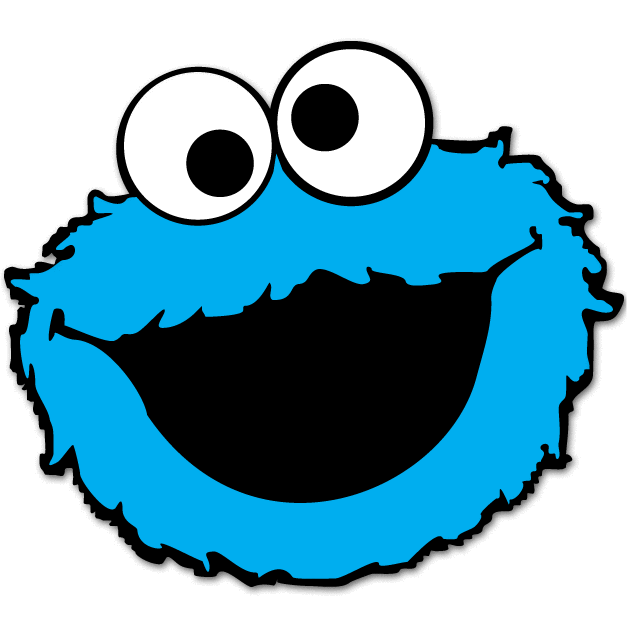
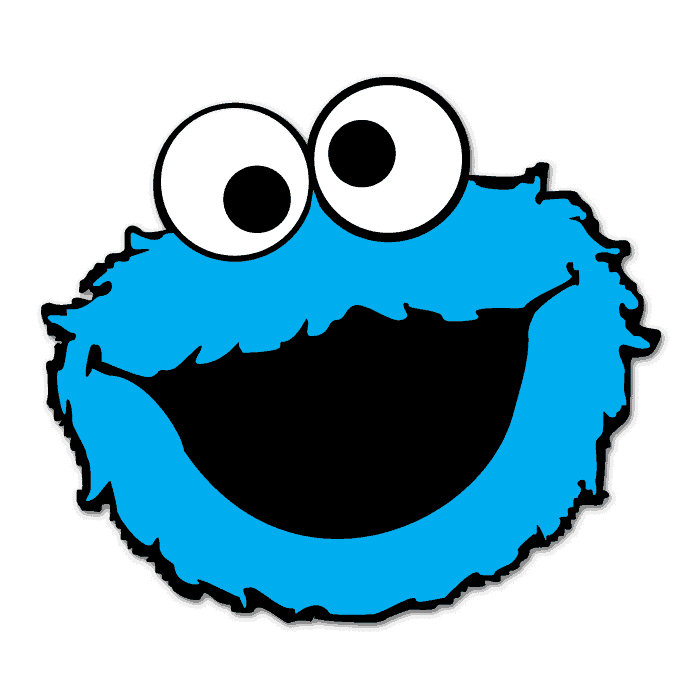
Site updated: 2023-07-11 00:01:03

Changed region(s): [[0.0, 0.0606, 1.0, 0.9697]]

diff --git a/js/APlayer/docs/zh-Hans/support.html b/js/APlayer/docs/zh-Hans/support.html
@@ -7,8 +7,8 @@
 
 <head>
   <meta charset="UTF-8">
-  <link rel="apple-touch-icon" sizes="76x76" href="/img/cookiemonster.png">
-  <link rel="icon" href="/img/cookiemonster.png">
+  <link rel="apple-touch-icon" sizes="76x76" href="/img/cookie.png">
+  <link rel="icon" href="/img/cookie.png">
   <meta name="viewport" content="width=device-width, initial-scale=1.0, maximum-scale=5.0, shrink-to-fit=no">
   <meta http-equiv="x-ua-compatible" content="ie=edge">
   
@@ -259,7 +259,7 @@
 <li>通过 <a target="_blank" rel="noopener" href="https://github.com/sponsors/DIYgod">GitHub</a> 赞助</li>
 <li>通过 <a target="_blank" rel="noopener" href="https://www.patreon.com/DIYgod">Patreon</a> 赞助</li>
 <li>通过 <a target="_blank" rel="noopener" href="https://afdian.net/@diygod">爱发电</a> 赞助</li>
-<li>给我们发邮件联系赞助事宜: <a href="mailto:&#105;&#x40;&#x64;&#x69;&#x79;&#103;&#x6f;&#x64;&#46;&#x6d;&#101;">&#105;&#x40;&#x64;&#x69;&#x79;&#103;&#x6f;&#x64;&#46;&#x6d;&#101;</a></li>
+<li>给我们发邮件联系赞助事宜: <a href="mailto:&#x69;&#x40;&#x64;&#105;&#121;&#103;&#x6f;&#100;&#x2e;&#x6d;&#101;">&#x69;&#x40;&#x64;&#105;&#121;&#103;&#x6f;&#100;&#x2e;&#x6d;&#101;</a></li>
 </ul>
 <h2 id="一次性赞助"><a href="#一次性赞助" class="headerlink" title="一次性赞助"></a>一次性赞助</h2><p>我们通过以下方式接受赞助:</p>
 <ul>

diff --git a/js/APlayer/docs/support.html b/js/APlayer/docs/support.html
@@ -7,8 +7,8 @@
 
 <head>
   <meta charset="UTF-8">
-  <link rel="apple-touch-icon" sizes="76x76" href="/img/cookiemonster.png">
-  <link rel="icon" href="/img/cookiemonster.png">
+  <link rel="apple-touch-icon" sizes="76x76" href="/img/cookie.png">
+  <link rel="icon" href="/img/cookie.png">
   <meta name="viewport" content="width=device-width, initial-scale=1.0, maximum-scale=5.0, shrink-to-fit=no">
   <meta http-equiv="x-ua-compatible" content="ie=edge">
   
@@ -259,7 +259,7 @@
 <li>Become a Sponser on <a target="_blank" rel="noopener" href="https://github.com/sponsors/DIYgod">GitHub</a></li>
 <li>Become a Sponser on <a target="_blank" rel="noopener" href="https://www.patreon.com/DIYgod">Patreon</a></li>
 <li>Become a Sponser on <a target="_blank" rel="noopener" href="https://afdian.net/@diygod">爱发电</a></li>
-<li>Contact us directly: <a href="mailto:&#105;&#x40;&#x64;&#x69;&#121;&#x67;&#x6f;&#x64;&#46;&#109;&#x65;">&#105;&#x40;&#x64;&#x69;&#121;&#x67;&#x6f;&#x64;&#46;&#109;&#x65;</a></li>
+<li>Contact us directly: <a href="mailto:&#x69;&#x40;&#x64;&#105;&#121;&#103;&#x6f;&#100;&#x2e;&#x6d;&#101;">&#x69;&#x40;&#x64;&#105;&#121;&#103;&#x6f;&#100;&#x2e;&#x6d;&#101;</a></li>
 </ul>
 <h3 id="One-time-Donation"><a href="#One-time-Donation" class="headerlink" title="One-time Donation"></a>One-time Donation</h3><p>We accept donations via the following ways:</p>
 <ul>

diff --git a/js/APlayer/README.html b/js/APlayer/README.html
@@ -7,8 +7,8 @@
 
 <head>
   <meta charset="UTF-8">
-  <link rel="apple-touch-icon" sizes="76x76" href="/img/cookiemonster.png">
-  <link rel="icon" href="/img/cookiemonster.png">
+  <link rel="apple-touch-icon" sizes="76x76" href="/img/cookie.png">
+  <link rel="icon" href="/img/cookie.png">
   <meta name="viewport" content="width=device-width, initial-scale=1.0, maximum-scale=5.0, shrink-to-fit=no">
   <meta http-equiv="x-ua-compatible" content="ie=edge">
   
@@ -327,7 +327,7 @@
 <li>Become a Sponser on <a target="_blank" rel="noopener" href="https://github.com/sponsors/DIYgod">GitHub</a></li>
 <li>Become a Sponser on <a target="_blank" rel="noopener" href="https://www.patreon.com/DIYgod">Patreon</a></li>
 <li>Become a Sponser on <a target="_blank" rel="noopener" href="https://afdian.net/@diygod">爱发电</a></li>
-<li>Contact us directly: <a href="mailto:&#x69;&#x40;&#x64;&#x69;&#121;&#x67;&#111;&#100;&#46;&#109;&#101;">&#x69;&#x40;&#x64;&#x69;&#121;&#x67;&#111;&#100;&#46;&#109;&#101;</a></li>
+<li>Contact us directly: <a href="mailto:&#105;&#x40;&#x64;&#x69;&#121;&#x67;&#111;&#100;&#46;&#109;&#101;">&#105;&#x40;&#x64;&#x69;&#121;&#x67;&#111;&#100;&#46;&#109;&#101;</a></li>
 </ul>
 <h3 id="One-time-Donation"><a href="#One-time-Donation" class="headerlink" title="One-time Donation"></a>One-time Donation</h3><p>We accept donations via the following ways:</p>
 <ul>

diff --git a/2023/05/29/init-category/index.html b/2023/05/29/init-category/index.html
@@ -7,8 +7,8 @@
 
 <head>
   <meta charset="UTF-8">
-  <link rel="apple-touch-icon" sizes="76x76" href="/img/cookiemonster.png">
-  <link rel="icon" href="/img/cookiemonster.png">
+  <link rel="apple-touch-icon" sizes="76x76" href="/img/cookie.png">
+  <link rel="icon" href="/img/cookie.png">
   <meta name="viewport" content="width=device-width, initial-scale=1.0, maximum-scale=5.0, shrink-to-fit=no">
   <meta http-equiv="x-ua-compatible" content="ie=edge">
   

diff --git a/2023/06/04/硕士毕业/index.html b/2023/06/04/硕士毕业/index.html
@@ -7,8 +7,8 @@
 
 <head>
   <meta charset="UTF-8">
-  <link rel="apple-touch-icon" sizes="76x76" href="/img/cookiemonster.png">
-  <link rel="icon" href="/img/cookiemonster.png">
+  <link rel="apple-touch-icon" sizes="76x76" href="/img/cookie.png">
+  <link rel="icon" href="/img/cookie.png">
   <meta name="viewport" content="width=device-width, initial-scale=1.0, maximum-scale=5.0, shrink-to-fit=no">
   <meta http-equiv="x-ua-compatible" content="ie=edge">
   

diff --git a/404.html b/404.html
@@ -7,8 +7,8 @@
 
 <head>
   <meta charset="UTF-8">
-  <link rel="apple-touch-icon" sizes="76x76" href="/img/cookiemonster.png">
-  <link rel="icon" href="/img/cookiemonster.png">
+  <link rel="apple-touch-icon" sizes="76x76" href="/img/cookie.png">
+  <link rel="icon" href="/img/cookie.png">
   <meta name="viewport" content="width=device-width, initial-scale=1.0, maximum-scale=5.0, shrink-to-fit=no">
   <meta http-equiv="x-ua-compatible" content="ie=edge">
   

diff --git a/about/index.html b/about/index.html
@@ -7,8 +7,8 @@
 
 <head>
   <meta charset="UTF-8">
-  <link rel="apple-touch-icon" sizes="76x76" href="/img/cookiemonster.png">
-  <link rel="icon" href="/img/cookiemonster.png">
+  <link rel="apple-touch-icon" sizes="76x76" href="/img/cookie.png">
+  <link rel="icon" href="/img/cookie.png">
   <meta name="viewport" content="width=device-width, initial-scale=1.0, maximum-scale=5.0, shrink-to-fit=no">
   <meta http-equiv="x-ua-compatible" content="ie=edge">
   

diff --git a/archives/2023/06/index.html b/archives/2023/06/index.html
@@ -7,8 +7,8 @@
 
 <head>
   <meta charset="UTF-8">
-  <link rel="apple-touch-icon" sizes="76x76" href="/img/cookiemonster.png">
-  <link rel="icon" href="/img/cookiemonster.png">
+  <link rel="apple-touch-icon" sizes="76x76" href="/img/cookie.png">
+  <link rel="icon" href="/img/cookie.png">
   <meta name="viewport" content="width=device-width, initial-scale=1.0, maximum-scale=5.0, shrink-to-fit=no">
   <meta http-equiv="x-ua-compatible" content="ie=edge">
   

diff --git a/archives/2023/index.html b/archives/2023/index.html
@@ -7,8 +7,8 @@
 
 <head>
   <meta charset="UTF-8">
-  <link rel="apple-touch-icon" sizes="76x76" href="/img/cookiemonster.png">
-  <link rel="icon" href="/img/cookiemonster.png">
+  <link rel="apple-touch-icon" sizes="76x76" href="/img/cookie.png">
+  <link rel="icon" href="/img/cookie.png">
   <meta name="viewport" content="width=device-width, initial-scale=1.0, maximum-scale=5.0, shrink-to-fit=no">
   <meta http-equiv="x-ua-compatible" content="ie=edge">
   

diff --git a/archives/index.html b/archives/index.html
@@ -7,8 +7,8 @@
 
 <head>
   <meta charset="UTF-8">
-  <link rel="apple-touch-icon" sizes="76x76" href="/img/cookiemonster.png">
-  <link rel="icon" href="/img/cookiemonster.png">
+  <link rel="apple-touch-icon" sizes="76x76" href="/img/cookie.png">
+  <link rel="icon" href="/img/cookie.png">
   <meta name="viewport" content="width=device-width, initial-scale=1.0, maximum-scale=5.0, shrink-to-fit=no">
   <meta http-equiv="x-ua-compatible" content="ie=edge">
   

diff --git a/categories/index.html b/categories/index.html
@@ -7,8 +7,8 @@
 
 <head>
   <meta charset="UTF-8">
-  <link rel="apple-touch-icon" sizes="76x76" href="/img/cookiemonster.png">
-  <link rel="icon" href="/img/cookiemonster.png">
+  <link rel="apple-touch-icon" sizes="76x76" href="/img/cookie.png">
+  <link rel="icon" href="/img/cookie.png">
   <meta name="viewport" content="width=device-width, initial-scale=1.0, maximum-scale=5.0, shrink-to-fit=no">
   <meta http-equiv="x-ua-compatible" content="ie=edge">
   

diff --git a/categories/生活/index.html b/categories/生活/index.html
@@ -7,8 +7,8 @@
 
 <head>
   <meta charset="UTF-8">
-  <link rel="apple-touch-icon" sizes="76x76" href="/img/cookiemonster.png">
-  <link rel="icon" href="/img/cookiemonster.png">
+  <link rel="apple-touch-icon" sizes="76x76" href="/img/cookie.png">
+  <link rel="icon" href="/img/cookie.png">
   <meta name="viewport" content="width=device-width, initial-scale=1.0, maximum-scale=5.0, shrink-to-fit=no">
   <meta http-equiv="x-ua-compatible" content="ie=edge">
   
